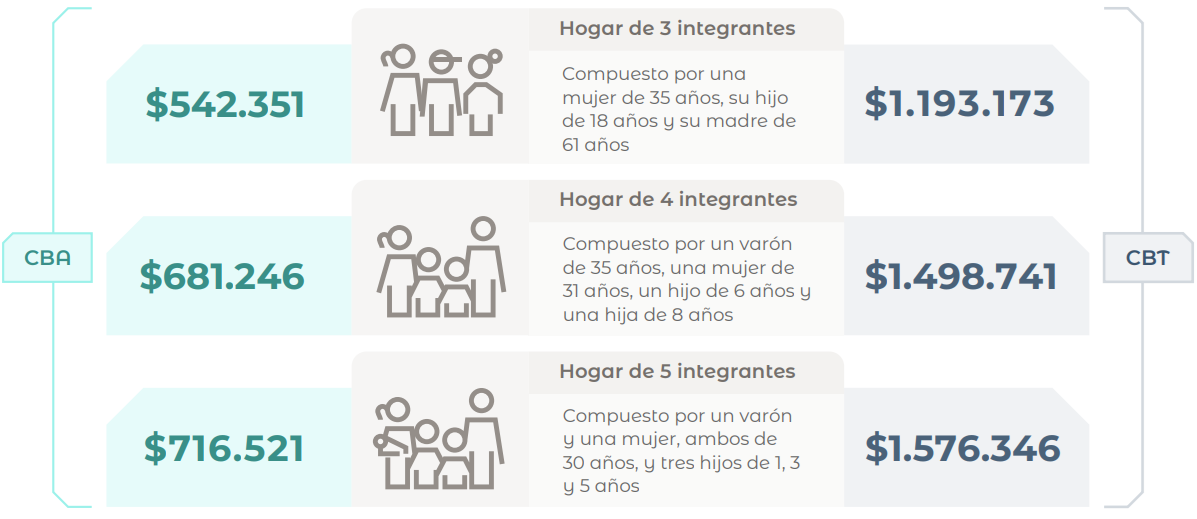
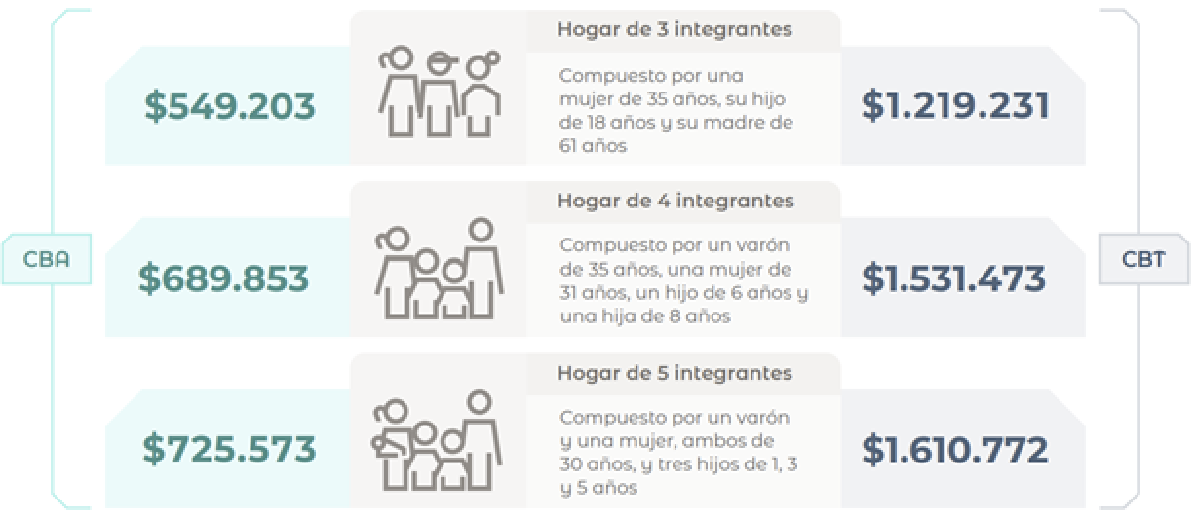
Update
Se cambio la imagen 1

diff --git a/reports/2026_dis_a.html b/reports/2026_dis_a.html
@@ -8,8 +8,8 @@
 tipo? | Vector Regional Consultores</title>
 
   <!-- Favicons -->
- <link href="assets/img/favicon.png" rel="icon">
- <link href="assets/img/apple-touch-icon.png" rel="apple-touch-icon">
+ <link href="../assets/img/favicon.png" rel="icon">
+ <link href="../assets/img/apple-touch-icon.png" rel="apple-touch-icon">
 
 <!-- SEO -->
   <meta name="description" content="Análisis de qué tan frecuente es el
@@ -142,12 +142,12 @@ canasta básica, a partir de datos de la EPH.">
   <p><img src="graficos/2026_dis_a/cbt_indec.png" width="598" /></p>
    </div>
     <p style="font-size: 0.85rem; color: #666; margin-top: -0.1rem;">
-      Fuente: INDEC (junio de 2026).
+      Fuente: INDEC (julio de 2026).
     </p>
 
   <p style="text-align: justify;">
 
-  De acuerdo con la última estimación de las canastas, el hogar de referencia de cuatro integrantes debió tener un ingreso de $ 1.498.741 para no ser considerado "hogar pobre", y de $ 681.246 para no ser considerado "hogar indigente". Dejando de lado el análisis de ingresos para otra ocasión, en este caso interesa saber cuán probable —a partir de participaciones del período de análisis— es encontrar un hogar cuyos integrantes sean un hombre de 35 años, una mujer de 31 años, un hijo de 6 años y una hija de 8 años —independientemente de los parentescos—. Asimismo, del análisis es posible inferir los otros dos casos.
+  De acuerdo con la última estimación de las canastas, el hogar de referencia de cuatro integrantes debió tener un ingreso de $ 1.531.473 para no ser considerado "hogar pobre", y de $ 689.853 para no ser considerado "hogar indigente". Dejando de lado el análisis de ingresos para otra ocasión, en este caso interesa saber cuán probable —a partir de participaciones del período de análisis— es encontrar un hogar cuyos integrantes sean un hombre de 35 años, una mujer de 31 años, un hijo de 6 años y una hija de 8 años —independientemente de los parentescos—. Asimismo, del análisis es posible inferir los otros dos casos.
 
   </p>
 
